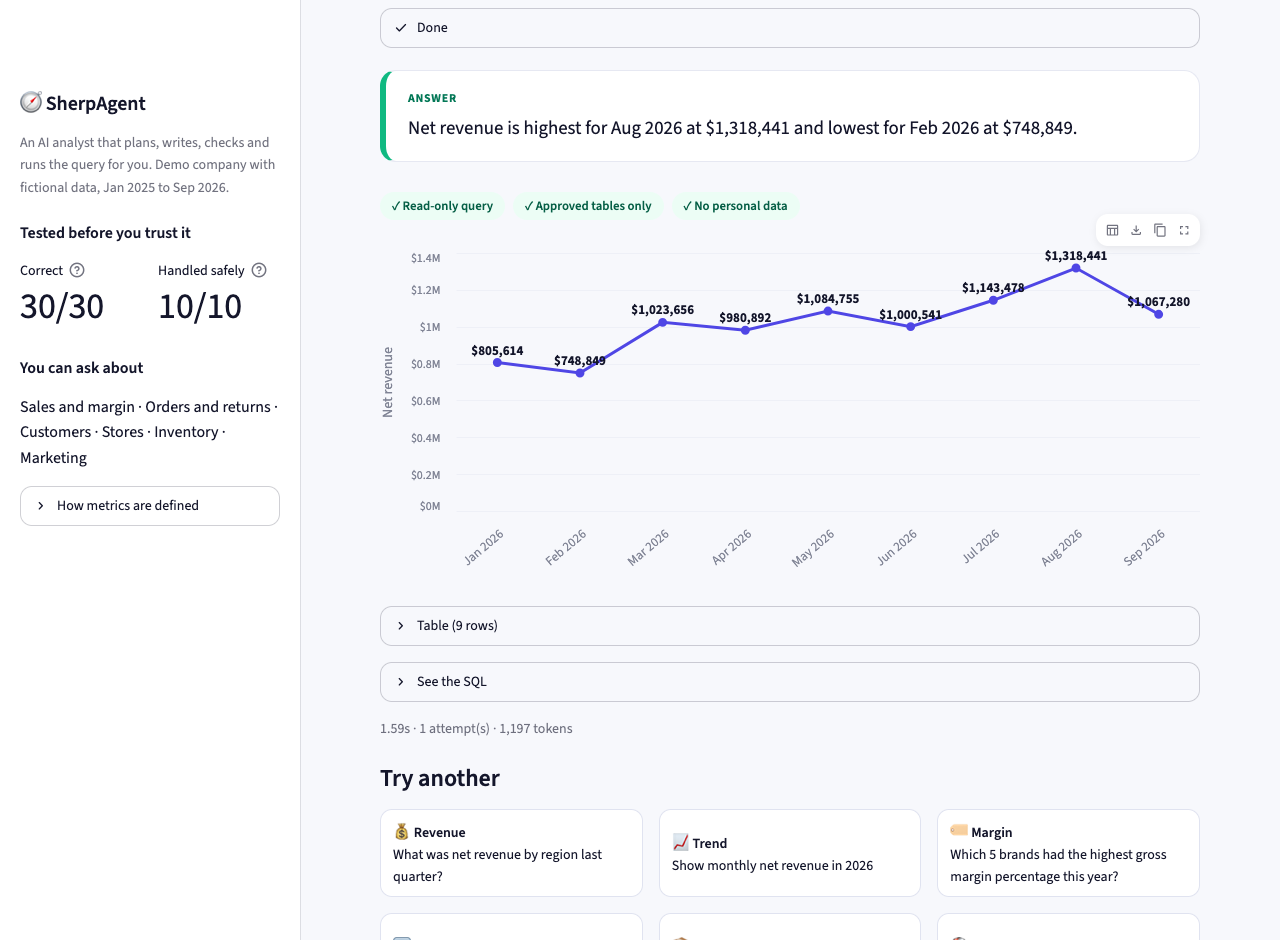
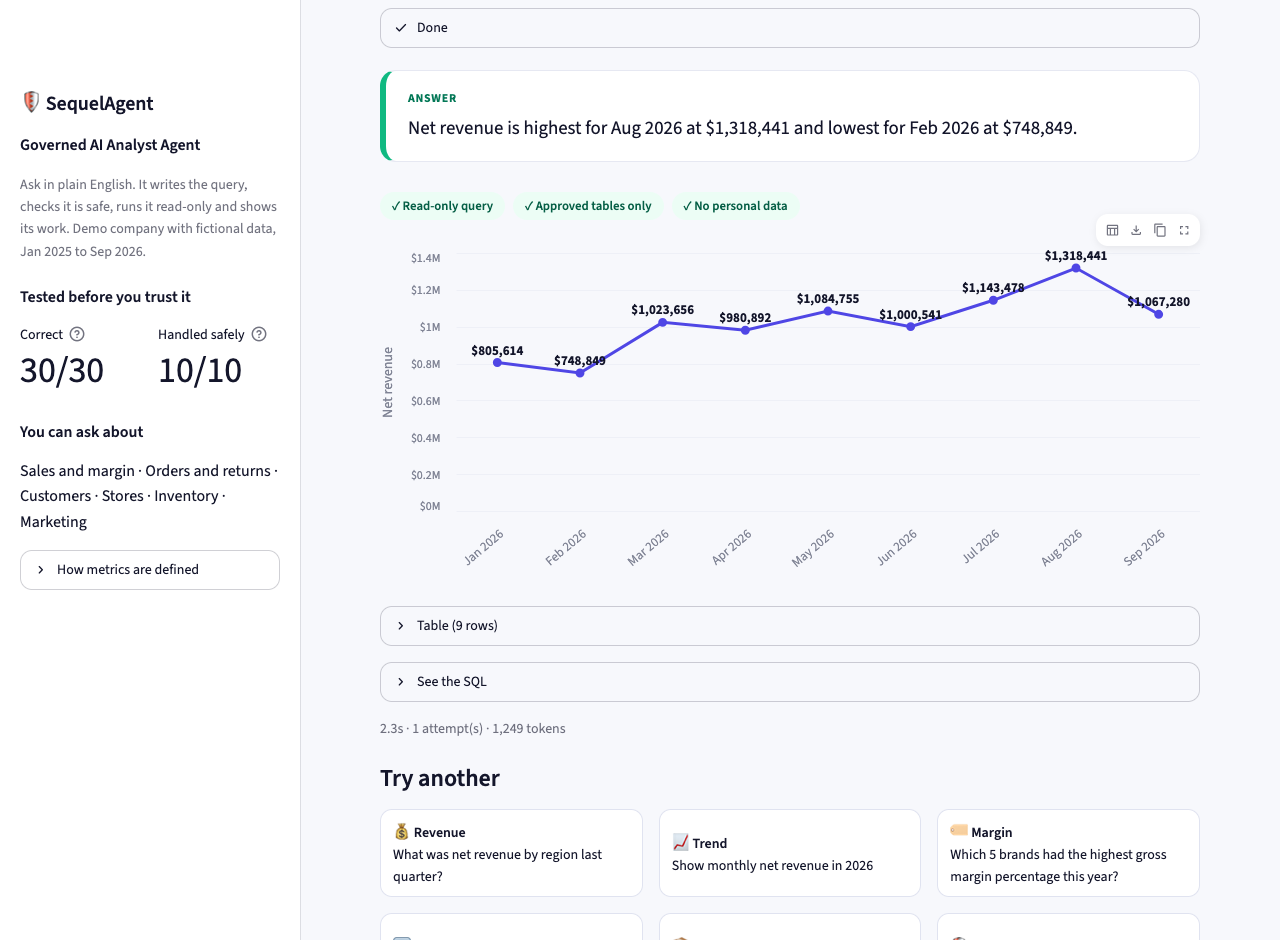
Rename to SequelAgent and describe it as a Governed AI Analyst Agent
Add a plain-language description and a table of what "governed" means to the
README, app, API and demo. Settings now use the SEQUELAGENT_ prefix. The demo
and screenshots were re-recorded from the renamed app.

Changed region(s): [[0.0, 0.0926, 0.2188, 0.617], [0.3125, 0.7713, 0.4375, 0.8021]]

diff --git a/analyst/app.py b/analyst/app.py
@@ -61,7 +61,7 @@ div[data-testid="stTextInput"] input {font-size: 1.08rem;}
 </style>
 """
 
-st.set_page_config(page_title="SherpAgent · Cedar Ridge Outfitters", page_icon="🧭", layout="wide", initial_sidebar_state="expanded")
+st.set_page_config(page_title="SequelAgent · Governed AI Analyst Agent", page_icon="🛡", layout="wide", initial_sidebar_state="expanded")
 load_env()
 st.html(STYLE)
 
@@ -102,13 +102,15 @@ def header() -> None:
                   f'<div class="n">{html.escape(present.show(m["value"], m["name"]))}</div>'
                   f'<div class="d">{change(m["vs_previous"], unit, "last month")}<br>{change(m["vs_year_ago"], unit, "last year")}</div></div>')
     st.html(f'<div class="bar"><div><div class="co">{COMPANY}</div><div class="sub">Business overview · {month}</div></div>'
-            f'<div class="pill">🧭 SherpAgent · your AI analyst</div></div><div class="kpis">{tiles}</div>')
+            f'<div class="pill">🛡 SequelAgent · Governed AI Analyst Agent</div></div><div class="kpis">{tiles}</div>')
 
 
 def sidebar() -> None:
     with st.sidebar:
-        st.markdown("## 🧭 SherpAgent")
-        st.caption("An AI analyst that plans, writes, checks and runs the query for you. Demo company with fictional data, Jan 2025 to Sep 2026.")
+        st.markdown("## 🛡 SequelAgent")
+        st.markdown("**Governed AI Analyst Agent**")
+        st.caption("Ask in plain English. It writes the query, checks it is safe, runs it read-only and shows its work. "
+                   "Demo company with fictional data, Jan 2025 to Sep 2026.")
         score = ROOT / "evals" / "results" / "latest.json"
         if score.exists():
             s = json.loads(score.read_text())
@@ -202,7 +204,7 @@ if question and question.strip():
         question = ""
 if question and question.strip():
     try:
-        with st.status("SherpAgent is working…", expanded=True) as status:
+        with st.status("SequelAgent is working…", expanded=True) as status:
             a = agent.ask(question, model(), on_step=lambda step: status.write(STEPS[step]))
             status.update(label="Done", state="complete", expanded=False)
         st.session_state.answer = a

diff --git a/analyst/api.py b/analyst/api.py
@@ -11,7 +11,8 @@ from analyst.config import DB_PATH, load_env, model_name
 from analyst.limits import RateLimit
 from analyst.llm import ModelError, OpenAIModel
 
-app = FastAPI(title="SherpAgent", description="Ask a business question; get checked SQL and the answer.")
+app = FastAPI(title="SequelAgent: Governed AI Analyst Agent",
+              description="Ask a business question in plain English; get checked, read-only SQL and the answer.")
 
 
 class Question(BaseModel):
@@ -28,8 +29,8 @@ limiter = RateLimit(calls=30, seconds=60)
 
 
 def guard(authorization: str = Header(default="")) -> None:
-    """Optional shared token (set SHERPAGENT_API_TOKEN) and a limit on how often the model can be called."""
-    token = os.environ.get("SHERPAGENT_API_TOKEN", "")
+    """Optional shared token (set SEQUELAGENT_API_TOKEN) and a limit on how often the model can be called."""
+    token = os.environ.get("SEQUELAGENT_API_TOKEN", "")
     if token and not hmac.compare_digest(authorization.encode(), f"Bearer {token}".encode()):
         raise HTTPException(401, "Missing or wrong token")
     if not limiter.allow():

diff --git a/analyst/config.py b/analyst/config.py
@@ -3,8 +3,8 @@ from pathlib import Path
 
 ROOT = Path(__file__).resolve().parent.parent
 # the build warehouse holds raw data; the agent only ever opens the serving copy, which holds the published tables
-WAREHOUSE_PATH = Path(os.environ.get("SHERPAGENT_WAREHOUSE", ROOT / "data" / "warehouse.duckdb"))
-DB_PATH = Path(os.environ.get("SHERPAGENT_DB", ROOT / "data" / "serving.duckdb"))
+WAREHOUSE_PATH = Path(os.environ.get("SEQUELAGENT_WAREHOUSE", ROOT / "data" / "warehouse.duckdb"))
+DB_PATH = Path(os.environ.get("SEQUELAGENT_DB", ROOT / "data" / "serving.duckdb"))
 SEMANTIC_PATH = ROOT / "semantic" / "metrics.yaml"
 SCHEMA = "analytics"
 ROW_LIMIT = 500
@@ -23,4 +23,4 @@ def load_env() -> None:
 
 
 def model_name() -> str:
-    return os.environ.get("SHERPAGENT_MODEL", "gpt-6-luna")
+    return os.environ.get("SEQUELAGENT_MODEL", "gpt-6-luna")

diff --git a/scripts/record_demo.py b/scripts/record_demo.py
@@ -66,7 +66,7 @@ def main() -> None:
                 frames.append((captioned(png, caption), ms))
                 return png
 
-            (DOCS / "home.png").write_bytes(snap("Meet SherpAgent: ask your data in plain English", 3500))
+            (DOCS / "home.png").write_bytes(snap("SequelAgent, a governed AI analyst: ask your data in plain English", 3500))
             for number, (name, question, caption) in enumerate(QUESTIONS, 1):
                 title = f"{number} of {len(QUESTIONS)} · {caption}"
                 if number > 1:                                   # each question starts from a clean screen

diff --git a/tests/test_security.py b/tests/test_security.py
@@ -34,7 +34,7 @@ def test_rate_limit_window():
 
 
 def test_api_token_and_limit(monkeypatch):
-    monkeypatch.setenv("SHERPAGENT_API_TOKEN", "s3cret")
+    monkeypatch.setenv("SEQUELAGENT_API_TOKEN", "s3cret")
     monkeypatch.setattr(api, "limiter", RateLimit(calls=1, seconds=60))
     api.app.dependency_overrides[api.get_model] = lambda: FakeModel("CANNOT_ANSWER: no")
     try:

diff --git a/analyst/__init__.py b/analyst/__init__.py
@@ -1,1 +1,1 @@
-"""SherpAgent: ask a business question, get checked SQL, a chart and a plain-language answer."""
+"""SequelAgent, a governed AI analyst agent: ask in plain English, get checked read-only SQL, a chart and an answer."""

diff --git a/README.md b/README.md
@@ -1,15 +1,32 @@
-# 🧭 SherpAgent
+# 🛡 SequelAgent: Governed AI Analyst Agent
 
-**An AI analyst agent for business data. Ask in plain English; it plans the analysis, writes the SQL, checks it, runs it,
-fixes its own errors and explains the answer, with a scorecard that says how often to trust it.**
+**Ask a business question in plain English and get a checked answer. SequelAgent writes the SQL, makes sure it is safe,
+runs it read-only, and shows you the chart, the explanation and the query behind it.**
 
-[![ci](https://github.com/ayj22/sherpagent/actions/workflows/ci.yml/badge.svg)](https://github.com/ayj22/sherpagent/actions/workflows/ci.yml)
+[![ci](https://github.com/ayj22/sequelagent/actions/workflows/ci.yml/badge.svg)](https://github.com/ayj22/sequelagent/actions/workflows/ci.yml)
 
-![SherpAgent demo: typed questions answered with charts and SQL, and a destructive request refused](docs/demo.gif)
+![SequelAgent demo: typed questions answered with charts and SQL, and a destructive request refused](docs/demo.gif)
 
 *A one-minute walkthrough, recorded from the running app with live model calls.*
 
-Most text-to-SQL demos stop at "the model wrote a query". SherpAgent is built around the parts that decide whether such a tool
+## What "governed" means here
+
+An AI model can write a query that is wrong or harmful, so the agent works inside fixed rules:
+
+| Rule | What it means for you |
+|---|---|
+| Shared metric definitions | The model is given one definition of each metric, such as net revenue or margin |
+| Checked before it runs | Only a single read query on approved tables is allowed |
+| Read-only data | The agent cannot change or delete anything |
+| No personal data | The database it queries holds only the published columns, without customer names or email addresses |
+| Open answers | Every answer shows its SQL |
+| Measured | A scorecard reports correct answers and how unsafe requests were handled |
+
+When a query fails, the agent reads the error and tries to repair it.
+
+## Why it exists
+
+Most text-to-SQL demos stop at "the model wrote a query". SequelAgent is built around the parts that decide whether such a tool
 can be used at work: shared metric definitions, treating the model as untrusted, and measuring accuracy and safety on every change.
 
 | | Latest run (`gpt-6-luna`) |
@@ -95,7 +112,7 @@ Around the model:
 - Text written by the model is shown as plain text, so it cannot place links or images on the screen.
 - CSV downloads neutralise spreadsheet formulas.
 - Provider error messages are never shown or logged, and the key is sent only over HTTPS.
-- The API accepts an optional shared token (`SHERPAGENT_API_TOKEN`).
+- The API accepts an optional shared token (`SEQUELAGENT_API_TOKEN`).
 - CI scans the whole git history for secrets, audits dependencies for known vulnerabilities and runs a static code scan, on
   every push and weekly. Details: [SECURITY.md](SECURITY.md).
 
@@ -162,8 +179,8 @@ make security                                              # dependency audit an
 Docker:
 
 ```bash
-docker build -t sherpagent .
-docker run -p 8501:8501 -e OPENAI_API_KEY sherpagent
+docker build -t sequelagent .
+docker run -p 8501:8501 -e OPENAI_API_KEY sequelagent
 ```
 
 AWS notes: [deploy/aws.md](deploy/aws.md) (written, not yet run against a live account).

diff --git a/deploy/aws.md b/deploy/aws.md
@@ -4,10 +4,10 @@ These steps have **not** been run against a live AWS account. The Docker image i
 
 1. Push the image to ECR:
    ```bash
-   aws ecr create-repository --repository-name sherpagent
+   aws ecr create-repository --repository-name sequelagent
    aws ecr get-login-password | docker login --username AWS --password-stdin <account>.dkr.ecr.<region>.amazonaws.com
-   docker build --platform linux/amd64 -t <account>.dkr.ecr.<region>.amazonaws.com/sherpagent:latest .
-   docker push <account>.dkr.ecr.<region>.amazonaws.com/sherpagent:latest
+   docker build --platform linux/amd64 -t <account>.dkr.ecr.<region>.amazonaws.com/sequelagent:latest .
+   docker push <account>.dkr.ecr.<region>.amazonaws.com/sequelagent:latest
    ```
 2. Store the model key in Secrets Manager (never in the image or the task definition).
 3. Create a Fargate service (0.5 vCPU, 1 GB) with container port `8501`, health check path `/_stcore/health`, and the secret
